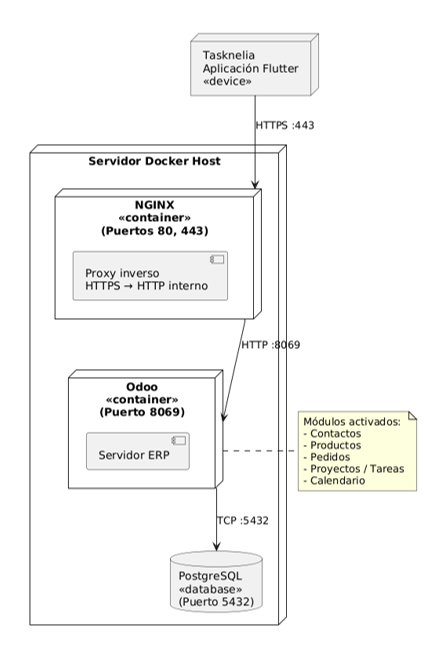
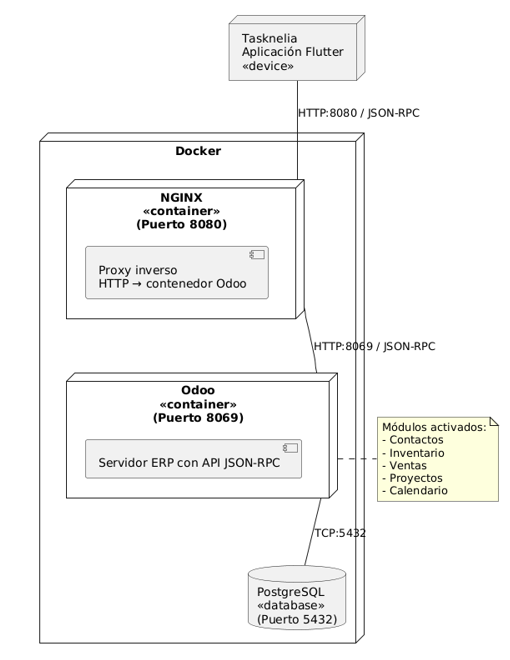
Docker de https subido solo para tener guardada la configuración

Changed region(s): [[0.0613, 0.0303, 1.0, 1.0]]

diff --git a/app/tfg_flutter/lib/presentation/views_screens/home_screen.dart b/app/tfg_flutter/lib/presentation/views_screens/home_screen.dart
@@ -59,8 +59,8 @@ class _HomeScreenState extends State<HomeScreen> {
     child: ElevatedButton(
       onPressed: ruta != null ? () => Navigator.pushNamed(context, ruta) : null,
       style: ElevatedButton.styleFrom(
-        backgroundColor: AppColors.fondoCampos,
-        foregroundColor: AppColors.textoOscuro,
+        backgroundColor: Colores.fondoCampos,
+        foregroundColor: Colores.textoOscuro,
         minimumSize: const Size(double.infinity, 50),
         elevation: 2,
         shape: RoundedRectangleBorder(
@@ -89,7 +89,7 @@ class _HomeScreenState extends State<HomeScreen> {
       child: Container(
         decoration: BoxDecoration(
           border: Border.all(
-            color: AppColors.fondoCampos,
+            color: Colores.fondoCampos,
             width: 2,
           ),
           borderRadius: BorderRadius.circular(16),
@@ -116,11 +116,11 @@ class _HomeScreenState extends State<HomeScreen> {
           },
           calendarStyle: CalendarStyle(
             todayDecoration: const BoxDecoration(
-              color: AppColors.azulPrincipal,
+              color: Colores.azulPrincipal,
               shape: BoxShape.circle,
             ),
             selectedDecoration: BoxDecoration(
-              color: AppColors.textoOscuro.withOpacity(0.9),
+              color: Colores.textoOscuro.withOpacity(0.9),
               shape: BoxShape.circle,
             ),
             defaultTextStyle: const TextStyle(
@@ -134,15 +134,15 @@ class _HomeScreenState extends State<HomeScreen> {
             titleTextStyle: TextStyle(
               fontSize: 18,
               fontWeight: FontWeight.bold,
-              color: AppColors.textoOscuro,
+              color: Colores.textoOscuro,
             ),
-            leftChevronIcon: Icon(Icons.chevron_left, color: AppColors.azulPrincipal),
-            rightChevronIcon: Icon(Icons.chevron_right, color: AppColors.azulPrincipal),
+            leftChevronIcon: Icon(Icons.chevron_left, color: Colores.azulPrincipal),
+            rightChevronIcon: Icon(Icons.chevron_right, color: Colores.azulPrincipal),
           ),
           daysOfWeekStyle: const DaysOfWeekStyle(
             weekdayStyle: TextStyle(
               fontWeight: FontWeight.w600,
-              color: AppColors.textoOscuro,
+              color: Colores.textoOscuro,
             ),
           ),
         ),

diff --git a/app/tfg_flutter/lib/presentation/widget/header_widget.dart b/app/tfg_flutter/lib/presentation/widget/header_widget.dart
@@ -3,6 +3,7 @@ import 'package:flutter/material.dart';
 import '/theme/colores.dart';
 import '/presentation/viewmodels/usuario_viewmodel.dart';
 
+//encabezado para poner en las screens
 class HeaderWidget extends StatelessWidget {
   final String nombre;
   final String? fotoUrl;
@@ -25,7 +26,7 @@ class HeaderWidget extends StatelessWidget {
           child: Container(
             height: 110,
             decoration: BoxDecoration(
-              color: AppColors.azulPrincipal,
+              color: Colores.azulPrincipal,
               boxShadow: [
                 BoxShadow(
                   color: Colors.black.withOpacity(0.2),
@@ -71,7 +72,7 @@ class HeaderWidget extends StatelessWidget {
                         style: const TextStyle(
                           fontSize: 16,
                           fontWeight: FontWeight.bold,
-                          color: AppColors.textoOscuro,
+                          color: Colores.textoOscuro,
                         ),
                       ),
                     ],
@@ -80,14 +81,14 @@ class HeaderWidget extends StatelessWidget {
                     children: [
                       IconButton(
                         icon: const Icon(Icons.chat_rounded),
-                        color: AppColors.textoOscuro,
+                        color: Colores.textoOscuro,
                         onPressed: () {
                           Navigator.pushNamed(context, '/chat');
                         },
                       ),
                       IconButton(
                         icon: const Icon(Icons.logout),
-                        color: AppColors.textoOscuro,
+                        color: Colores.textoOscuro,
                         onPressed: () async {
                           await usuarioVM.cerrarSesion();
                           if (context.mounted) {

diff --git a/app/tfg_flutter/lib/presentation/views_screens/login_screen.dart b/app/tfg_flutter/lib/presentation/views_screens/login_screen.dart
@@ -88,7 +88,7 @@ class _LoginScreenState extends State<LoginScreen> {
                             }
                           },
                           style: ElevatedButton.styleFrom(
-                            backgroundColor: AppColors.azulPrincipal,
+                            backgroundColor: Colores.azulPrincipal,
                             shape: const CircleBorder(),
                             padding: const EdgeInsets.all(28),
                             side: const BorderSide(color: Color.fromARGB(255, 207, 206, 206), width: 2),
@@ -135,7 +135,7 @@ class _LoginScreenState extends State<LoginScreen> {
           child: Container(
             height: size.height * 0.40,
             width: double.infinity,
-            color: AppColors.azulPrincipal,
+            color: Colores.azulPrincipal,
           ),
         ),
         Positioned(
@@ -178,7 +178,7 @@ class _LoginScreenState extends State<LoginScreen> {
               style: TextStyle(
                 fontSize: 24,
                 fontWeight: FontWeight.bold,
-                color: AppColors.textoOscuro,
+                color: Colores.textoOscuro,
               ),
             ),
           ),
@@ -198,7 +198,7 @@ class _LoginScreenState extends State<LoginScreen> {
           hintText: hint,
           prefixIcon: Icon(icon),
           filled: true,
-          fillColor: AppColors.fondoCampos,
+          fillColor: Colores.fondoCampos,
           border: OutlineInputBorder(
             borderRadius: BorderRadius.circular(12),
           ),

diff --git a/app/tfg_flutter/lib/presentation/views_screens/editar_tarea_screen.dart b/app/tfg_flutter/lib/presentation/views_screens/editar_tarea_screen.dart
@@ -125,10 +125,10 @@ class _EditarTareaScreenState extends State<EditarTareaScreen> {
   @override
   Widget build(BuildContext context) {
     return Scaffold(
-      backgroundColor: AppColors.fondoClaro,
+      backgroundColor: Colores.fondoClaro,
       appBar: AppBar(
         title: const Text("Editar Tarea"),
-        backgroundColor: AppColors.azulPrincipal,
+        backgroundColor: Colores.azulPrincipal,
       ),
       body: Padding(
         padding: const EdgeInsets.all(20),
@@ -168,7 +168,7 @@ class _EditarTareaScreenState extends State<EditarTareaScreen> {
                 ElevatedButton(
                   onPressed: _seleccionarFecha,
                   style: ElevatedButton.styleFrom(
-                    backgroundColor: AppColors.azulPrincipal,
+                    backgroundColor: Colores.azulPrincipal,
                   ),
                   child: const Text("Cambiar Fecha"),
                 ),
@@ -182,7 +182,7 @@ class _EditarTareaScreenState extends State<EditarTareaScreen> {
                     icon: const Icon(Icons.check),
                     label: const Text("Guardar Cambios"),
                     style: ElevatedButton.styleFrom(
-                      backgroundColor: AppColors.azulPrincipal,
+                      backgroundColor: Colores.azulPrincipal,
                       padding: const EdgeInsets.symmetric(horizontal: 32, vertical: 12),
                     ),
                     onPressed: _editarTarea,

diff --git a/app/tfg_flutter/lib/presentation/views_screens/crear_tarea_screen.dart b/app/tfg_flutter/lib/presentation/views_screens/crear_tarea_screen.dart
@@ -190,7 +190,7 @@ class _CrearTareaScreenState extends State<CrearTareaScreen> {
                         : ElevatedButton(
                             onPressed: _crearTarea,
                             style: ElevatedButton.styleFrom(
-                              backgroundColor: AppColors.azulPrincipal,
+                              backgroundColor: Colores.azulPrincipal,
                               padding: const EdgeInsets.symmetric(vertical: 18),
                               shape: RoundedRectangleBorder(
                                 borderRadius: BorderRadius.circular(12),
@@ -243,7 +243,7 @@ class _CrearTareaScreenState extends State<CrearTareaScreen> {
         IconButton(
           onPressed: _seleccionarFecha,
           icon: const Icon(Icons.calendar_today),
-          color: AppColors.azulPrincipal,
+          color: Colores.azulPrincipal,
         ),
       ],
     );
@@ -253,7 +253,7 @@ class _CrearTareaScreenState extends State<CrearTareaScreen> {
     return InputDecoration(
       labelText: label,
       filled: true,
-      fillColor: AppColors.fondoCampos,
+      fillColor: Colores.fondoCampos,
       border: OutlineInputBorder(
         borderRadius: BorderRadius.circular(12),
         borderSide: BorderSide(color: Colors.grey.shade300, width: 1.2),

diff --git a/app/tfg_flutter/lib/presentation/views_screens/agenda_screen.dart b/app/tfg_flutter/lib/presentation/views_screens/agenda_screen.dart
@@ -48,7 +48,7 @@ class _AgendaScreenState extends State<AgendaScreen> {
                   style: TextStyle(
                     fontSize: 22,
                     fontWeight: FontWeight.bold,
-                    color: AppColors.textoOscuro,
+                    color: Colores.textoOscuro,
                   ),
                 ),
               ),
@@ -106,7 +106,7 @@ class _AgendaScreenState extends State<AgendaScreen> {
   static const _seccionStyle = TextStyle(
     fontSize: 16,
     fontWeight: FontWeight.bold,
-    color: AppColors.textoOscuro,
+    color: Colores.textoOscuro,
   );
 
   Widget _buildTareaCard(Tarea tarea) {
@@ -142,7 +142,7 @@ class _AgendaScreenState extends State<AgendaScreen> {
                     style: const TextStyle(
                       fontWeight: FontWeight.bold,
                       fontSize: 16,
-                      color: AppColors.textoOscuro,
+                      color: Colores.textoOscuro,
                     ),
                   ),
                   const SizedBox(height: 4),

diff --git a/app/tfg_flutter/lib/presentation/views_screens/chat_screen.dart b/app/tfg_flutter/lib/presentation/views_screens/chat_screen.dart
@@ -101,7 +101,7 @@ class ChatScreen extends StatelessWidget {
                     message["name"]!,
                     style: const TextStyle(
                       fontWeight: FontWeight.bold,
-                      color: AppColors.textoOscuro,
+                      color: Colores.textoOscuro,
                     ),
                   ),
                   subtitle: Text(message["message"]!),

diff --git a/app/tfg_flutter/lib/theme/colores.dart b/app/tfg_flutter/lib/theme/colores.dart
@@ -1,7 +1,7 @@
 import 'package:flutter/material.dart';
 
 //reutilización de colores!
-class AppColors {
+class Colores {
   static const azulPrincipal = Color(0xFF88CAFF);
   static const fondoClaro = Color(0xFFE3F2FD);
   static const textoOscuro = Color(0xFF545454);

diff --git a/diagrams/CasosUso.md b/diagrams/CasosUso.md
@@ -3,8 +3,9 @@
 left to right direction
 skinparam packageStyle rectangle
 
+'los dos usuarios'
 actor Admin as "Administrador"
-actor Worker as "Trabajador"
+actor Trabajador as "Trabajador"
 
 rectangle {
 
@@ -12,13 +13,15 @@ rectangle {
   usecase "Modificar tarea, reunión o pedido"
   usecase "Eliminar tarea, reunión o pedido"
   usecase "Consultar tareas, reuniones o pedidos asignados"
+
 }
 
-Admin --> "Crear tarea, reunión o pedido"
-Admin --> "Modificar tarea, reunión o pedido"
-Admin --> "Eliminar tarea, reunión o pedido"
-Admin --> "Consultar tareas, reuniones o pedidos asignados"
+'sin las flechitas'
+Admin -- "Crear tarea, reunión o pedido"
+Admin -- "Modificar tarea, reunión o pedido"
+Admin -- "Eliminar tarea, reunión o pedido"
+Admin -- "Consultar tareas, reuniones o pedidos asignados"
 
-Worker --> "Consultar tareas, reuniones o pedidos asignados"
+Trabajador -- "Consultar tareas, reuniones o pedidos asignados"
 
 @enduml

diff --git a/diagrams/Despliegue.md b/diagrams/Despliegue.md
@@ -1,31 +1,30 @@
 ```plantuml
 @startuml
-
 node "Tasknelia\nAplicación Flutter\n<<device>>" as flutter
 
-node "Servidor Docker Host" as docker {
+node "Docker" as docker {
 
-  node "NGINX\n<<container>>\n(Puertos 80, 443)" as nginx {
-    [Proxy inverso\nHTTPS → HTTP interno]
+  node "NGINX\n<<container>>\n(Puerto 8080)" as nginx {
+    [Proxy inverso\nHTTP → contenedor Odoo]
   }
 
   node "Odoo\n<<container>>\n(Puerto 8069)" as odoo {
-    [Servidor ERP]
+    [Servidor ERP con API JSON-RPC]
   }
 
   database "PostgreSQL\n<<database>>\n(Puerto 5432)" as postgres
 }
 
-flutter --> nginx : HTTPS :443
-nginx --> odoo : HTTP :8069
-odoo --> postgres : TCP :5432
+flutter -- nginx : HTTP:8080 / JSON-RPC
+nginx -- odoo : HTTP:8069 / JSON-RPC
+odoo -- postgres : TCP:5432
 
 note right of odoo
 Módulos activados:
 - Contactos
-- Productos
-- Pedidos
-- Proyectos / Tareas
+- Inventario
+- Ventas
+- Proyectos
 - Calendario
 end note
 @enduml
